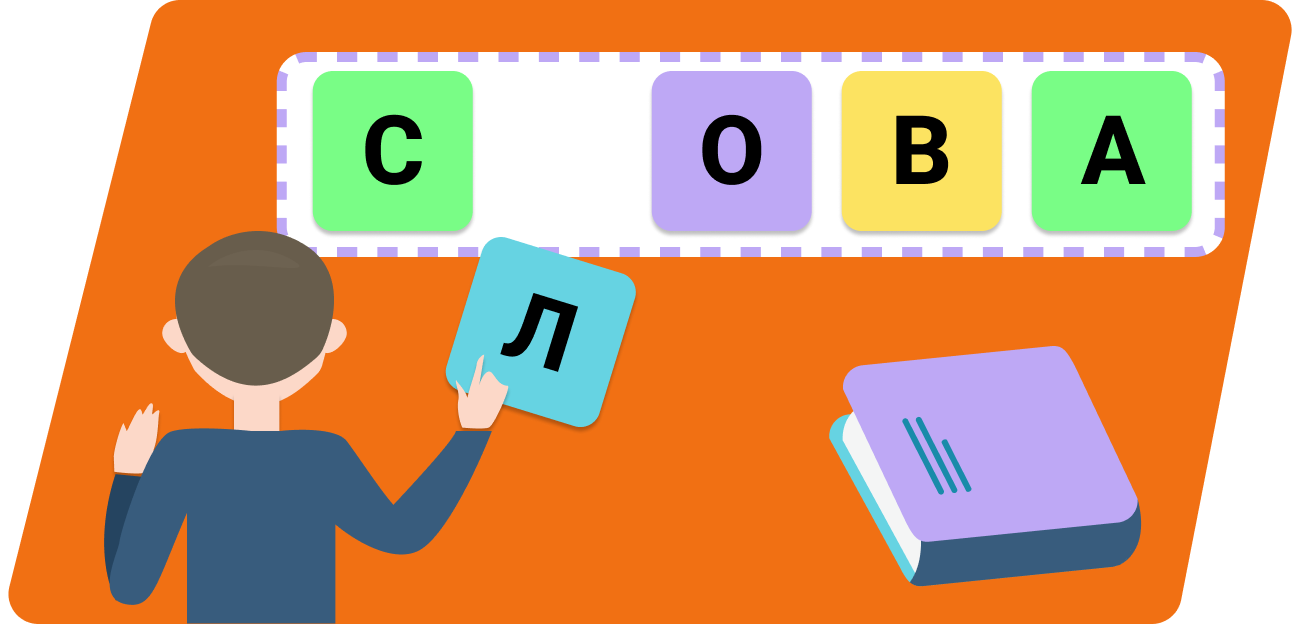
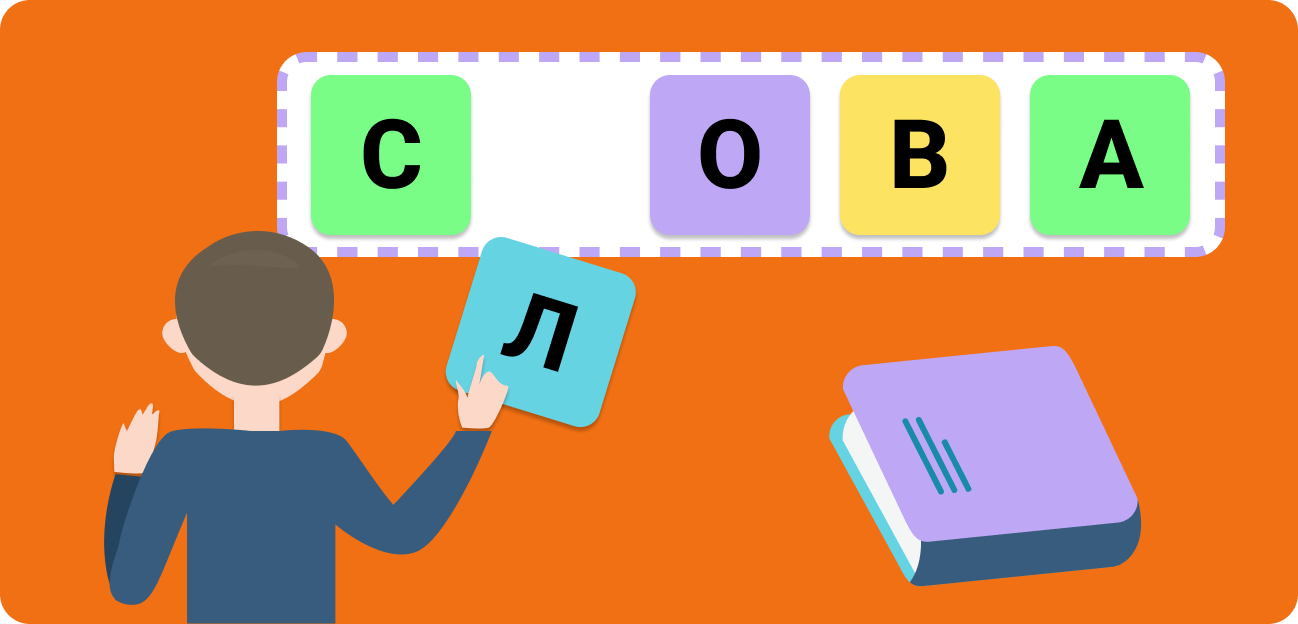
updates

diff --git a/index.html b/index.html
@@ -78,11 +78,11 @@ button[disabled] {
     color: #777;
 }
 #keyboard button[data-state='correct'], #board .row .tile[data-state='correct'] {
-    background-color: #6aaa64;
+    background-color: #79FD86;
     color: #ffffff;
 }
 #keyboard button[data-state='present'], #board .row .tile[data-state='present'] {
-    background-color: #c9b458;
+    background-color: #FCE361;
     color: #ffffff;
 }
 #keyboard button[data-state='absent'], #board .row .tile[data-state='absent'] {
@@ -98,12 +98,23 @@ button[disabled] {
 #logo img {
     width: 20rem;	
 }
+#invalidWarning {
+    background-color: black;
+    color: white;
+    padding: 15px;
+    margin: auto;
+    margin-top: 10px;
+}
+.hidden {
+  display: none;
+}
 </style>
 </head>
 <body>
 <div id="logo">
-<img src="slova.png" />
+	<img src="slova.png" />
 </div>
+<div id="invalidWarning" class="hidden">Это не настоящее слово</div>
 <div id="board-container">
 <div id="board" style="width: 350px; height: 420px;">
 </div>
@@ -172,7 +183,8 @@ let currentRow = 0;
 let currentTile = 0;
 let currentWord = "";
 let seenWords = [];
-let foundWord = false;
+let foundWord = false
+const validChars = "абвгдеёжзийклмнопрстуфхцчшщъыьэюя";
 async function test() {
 	const url = "https://raw.githubusercontent.com/Dird/ru/main/shuffle.txt"
 	const response = await fetch(url);
@@ -209,28 +221,45 @@ function buildView() {
 	}
 	
 }
+function showInvalidWordWarning() {
+	document.getElementById('invalidWarning').classList.remove('hidden');
+  setTimeout(function(){
+    document.getElementById('invalidWarning').classList.add('hidden');
+  },2000)
+}
 function buttonClick(e) {
 	const val = e.innerHTML.toLowerCase();
-	if (currentTile == 0 && val == 'del') { return; }
-	if (currentTile != 5 && val == 'enter') { return; }
+	checkInput(val);
+}
+function checkInput(val) {
 	if (val == "del") { deleteChar(); return; }
 	if (val == "enter") { checkWord(); return; }
 	currentWord += val;
 	document.getElementById(currentRow + '_' + currentTile).innerHTML = val;
-	currentTile++;	
+	currentTile++;
 }
 function deleteChar() {
+	if(currentTile == 0) {
+		return;
+	}
 	currentTile--;
 	document.getElementById(currentRow + '_' + currentTile).innerHTML = '';	
 	currentWord = currentWord.substring(0, currentWord.length-1);
 }
+
 function checkWord() {
-	if (currentWord == 6 || foundWord) {
+	if (currentTile != 5) {
+		return;
+	}
+	if (currentRow == 6 || foundWord) {
 		alert('игра закончена. Чтобы воспроизвести снова, обновите страницу. ответ был:' + wordOfTheDay);
 		return;
 	}
 	if (!possibleWords.includes(currentWord)) {
-		alert('Это не настоящее слово, блин');
+		showInvalidWordWarning();
+		while(currentTile > 0) {
+			deleteChar();
+		}
 		return;
 	}
 	for (let i = 0; i < currentWord.length; i++) {
@@ -296,8 +325,18 @@ function matchingPositions(arr1, arr2) {
 
 // Create listener 
 document.addEventListener('keydown', (e) => { 
-		console.log('keyCode: ' + e.keyCode);
-		console.log('key: ' + e.key);
+		const code = e.keyCode;
+		if (code == 0) {
+			return;
+		}
+		const key = e.key.toLowerCase();
+		if (validChars.includes(key)) {
+			checkInput(key);
+		} else if (code == 13) {
+			checkInput('enter');
+		} else if(code == 46 || code == 8) {
+			checkInput('del');
+		}
 	}
 );
 
